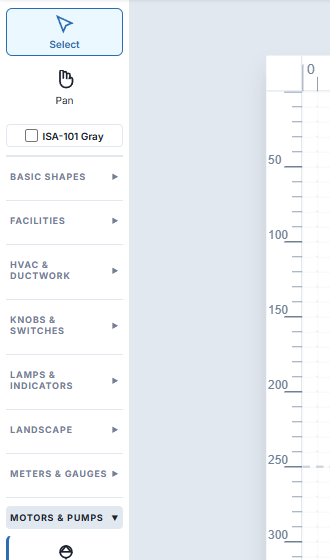
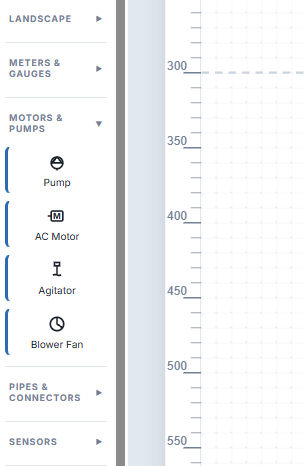
docs(simplevg): improved tutorial screenshots, add trace image controls shot

diff --git a/simplevg/docs/tutorial/11-live-svg-code/index.html b/simplevg/docs/tutorial/11-live-svg-code/index.html
@@ -25,11 +25,11 @@
 
   <p>Draw a rectangle and an ellipse, as in the earlier chapters. Along the very bottom of the window is a bar titled <b>Live SVG XML Source Code (2-Way Editing)</b>.</p>
   <figure>
-    <img src="01.png" alt="The collapsed code drawer bar along the bottom of the window with Find Selected, Clean and Format XML, Copy to Clipboard and Expand buttons" width="1600" height="40">
+    <img src="01.png" alt="The collapsed code drawer bar along the bottom of the window with Find Selected, Clean and Format XML, Copy to Clipboard and Expand buttons" width="1220" height="57">
   </figure>
   <p>Click <b>Expand</b> to open it. The same button now reads <b>Collapse</b>.</p>
   <figure>
-    <img src="02.png" alt="The code drawer expanded under the canvas, showing the SVG source for a rectangle and an ellipse" width="1600" height="1000">
+    <img src="02.png" alt="The code drawer expanded under the canvas, showing the SVG source for a rectangle and an ellipse" width="1236" height="372">
   </figure>
 
   <h2>Part 2: Reading the code</h2>
@@ -77,7 +77,7 @@
 
   <p>The code arrives as a single long line. Click <b>Clean &amp; Format XML</b> and SimpleVG tidies it, with one element per line and neat indentation.</p>
   <figure>
-    <img src="06.png" alt="The code drawer after Clean and Format XML, with the svg element and each shape on its own indented line" width="1600" height="1000">
+    <img src="06.png" alt="The code drawer after Clean and Format XML, with the svg element and each shape on its own indented line" width="1027" height="596">
   </figure>
   <p>The formatting is done by SimpleVG&rsquo;s own server, so the app must be running for this button to work. It changes only the layout of the text, not the drawing.</p>
 

diff --git a/simplevg/docs/tutorial/10-scada-tagging/index.html b/simplevg/docs/tutorial/10-scada-tagging/index.html
@@ -51,7 +51,7 @@
 
   <p>Open the live code drawer from Chapter 5 and click <b>Find Selected</b>. The valve&rsquo;s group is highlighted, and the three attributes are right there.</p>
   <figure>
-    <img src="03.png" alt="The Live SVG code drawer open, showing the valve group with class, id and data-tag attributes" width="1600" height="1000">
+    <img src="03.png" alt="The Live SVG code drawer open, showing the valve group with class, id and data-tag attributes" width="1215" height="481">
   </figure>
   <p>That is the whole mechanism. The SVG you save carries these names, so any system that reads them can look up <code>valve_01</code> or <code>FV101_OPEN</code> and drive the shape from live data. SimpleVG keeps the tags when you save, and when you open the file again later.</p>
 

diff --git a/simplevg/docs/tutorial/09-tracing-an-image/index.html b/simplevg/docs/tutorial/09-tracing-an-image/index.html
@@ -28,6 +28,10 @@
     <img src="01.png" alt="The Trace Image tab of the Inspector with Load Image and Clear buttons and the controls greyed out" width="362" height="552">
   </figure>
   <p>The controls are greyed out until you load a picture. Click <b>Load Image</b> and choose a PNG, JPEG, SVG, WEBP or GIF file.</p>
+  <p>As soon as a picture is loaded, the controls come to life. You can now show or hide the reference, fade it, scale it and move it. We look at each of them in the next part.</p>
+  <figure>
+    <img src="01b.png" alt="The Trace Image tab after loading a picture, with the Show Reference Image checkbox, Opacity, Scale, Offset X and Y and the export option all active" width="361" height="411">
+  </figure>
 
   <h2>Part 2: Place the reference</h2>
 

diff --git a/simplevg/docs/tutorial/04-symbol-libraries/index.html b/simplevg/docs/tutorial/04-symbol-libraries/index.html
@@ -27,7 +27,7 @@
 
   <p>Click a library heading to expand it. Here is <b>MOTORS &amp; PUMPS</b>, which offers a Pump, an AC Motor, an Agitator and a Blower Fan.</p>
   <figure>
-    <img src="01.png" alt="The Motors and Pumps section of the Toolbox expanded, showing Pump, AC Motor, Agitator and Blower Fan" width="330" height="560">
+    <img src="01.png" alt="The Motors and Pumps section of the Toolbox expanded, showing Pump, AC Motor, Agitator and Blower Fan" width="304" height="466">
   </figure>
   <p>Click a symbol once and it is added to the canvas and selected. Do the same for a <b>Valve Body</b> from <b>VALVES &amp; VESSELS</b>, then drag the pump to the right of the valve to make room.</p>
   <figure>

diff --git a/simplevg/docs/tutorial/07-fills-and-gradients/index.html b/simplevg/docs/tutorial/07-fills-and-gradients/index.html
@@ -57,7 +57,7 @@
 
   <p>Click the colour box beside <b>Fill</b> (or <b>Stroke Color</b>) to open the SCADA colour picker.</p>
   <figure>
-    <img src="04.png" alt="The SCADA colour picker popover showing a grid of basic colours, a hex colour box, More options, and Cancel and OK buttons" width="362" height="450">
+    <img src="04.png" alt="The SCADA colour picker popover showing a grid of basic colours, a hex colour box, More options, and Cancel and OK buttons" width="349" height="567">
   </figure>
   <ul>
     <li>A grid of <b>basic colours</b> covers the main hues in light and dark tiers, plus a grayscale.</li>

diff --git a/simplevg/docs/tutorial/08-arranging-shapes/index.html b/simplevg/docs/tutorial/08-arranging-shapes/index.html
@@ -25,7 +25,7 @@
 
   <p>Draw three overlapping rectangles in different colours, then click <b>Format</b>.</p>
   <figure>
-    <img src="01.png" alt="The Format menu open, listing layer order, alignment, join paths, flip, mirror and radial array commands" width="600" height="560">
+    <img src="01.png" alt="The Format menu open, listing layer order, alignment, join paths, flip, mirror and radial array commands" width="582" height="720">
   </figure>
   <p>Shapes stack in the order they were drawn, with the newest in front. The first four commands change that:</p>
   <dl>
